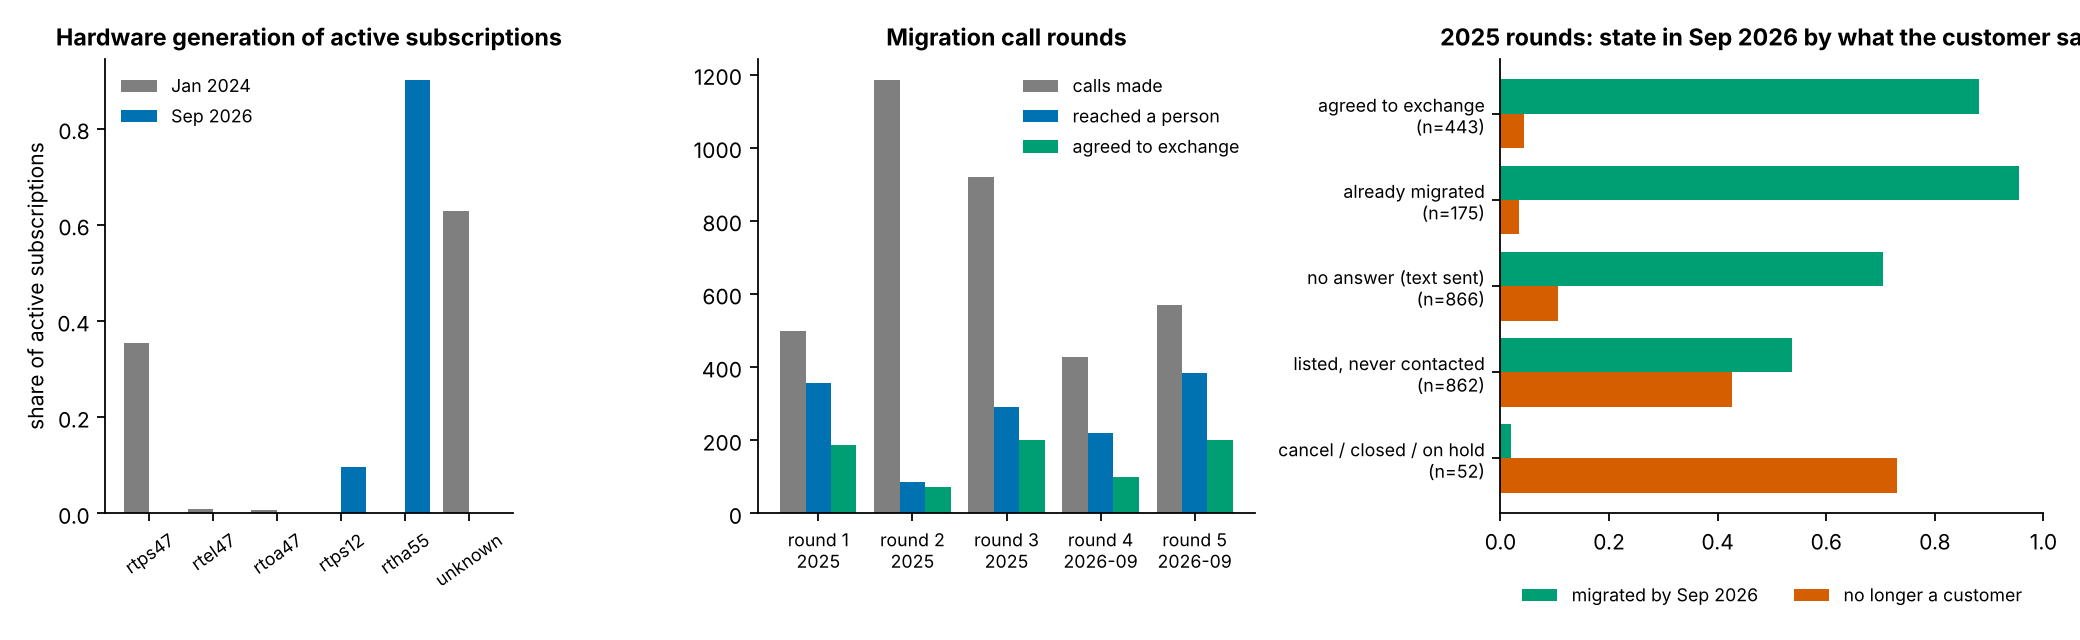
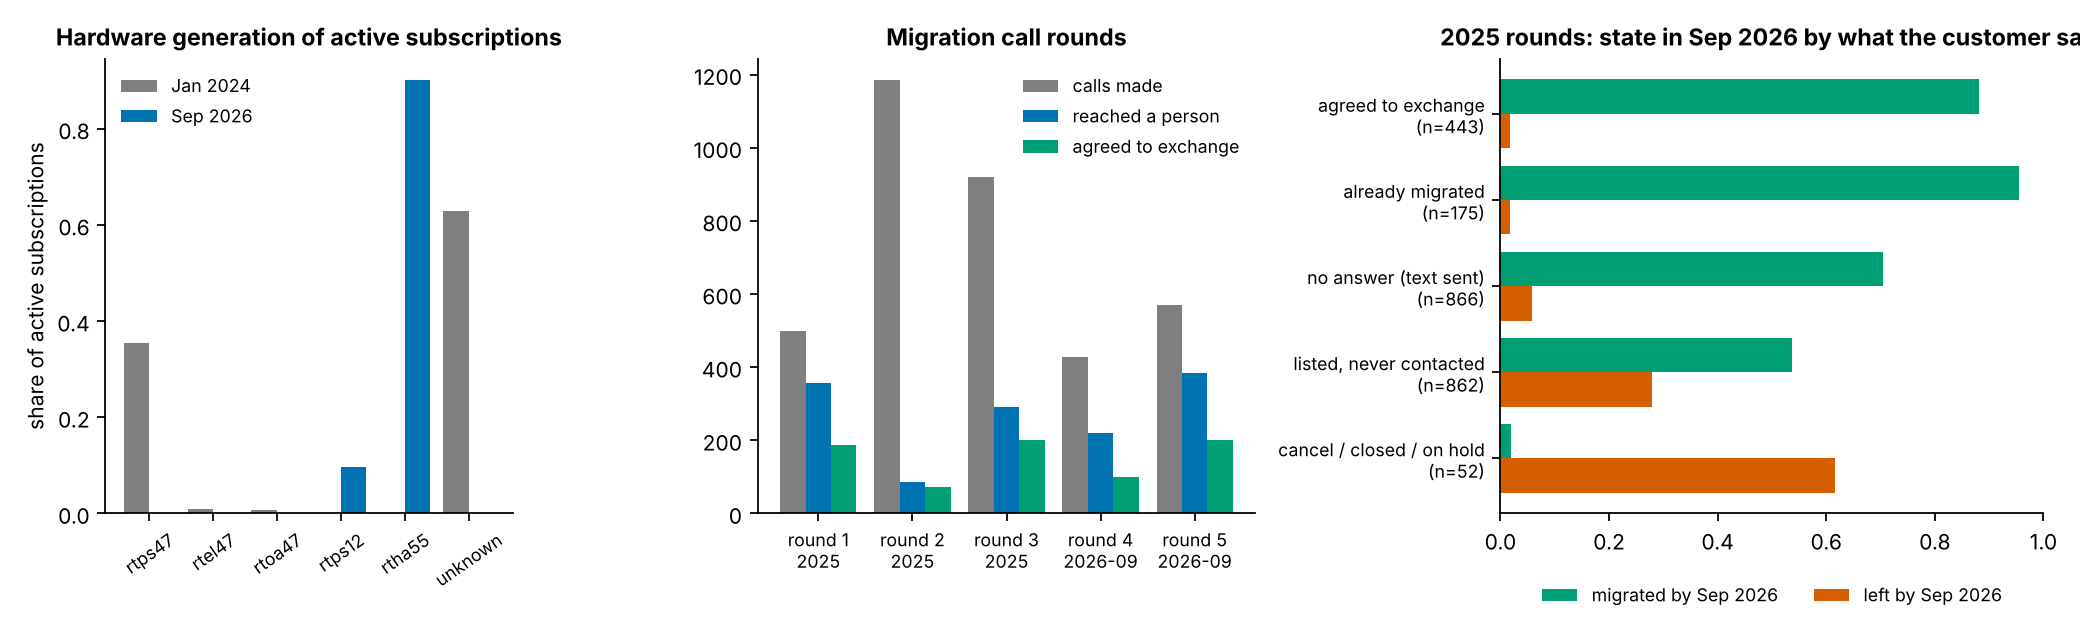
Call outcomes: keep customers on hold or in grace apart from customers who left

diff --git a/src/sublife/report.py b/src/sublife/report.py
@@ -195,7 +195,7 @@ def fig_migration(mix: pd.DataFrame, fun: pd.DataFrame, outc: pd.DataFrame, out:
     order = [g for g in ["agreed to exchange", "already migrated", "no answer (text sent)", "listed, never contacted", "cancel / closed / on hold"] if g in o.index]
     y = np.arange(len(order))
     ax[2].barh(y - 0.2, [o.loc[g, "migrated_share"] for g in order], height=0.4, color=C["green"], label="migrated by Sep 2026")
-    ax[2].barh(y + 0.2, [o.loc[g, "left_share"] for g in order], height=0.4, color=C["red"], label="no longer a customer")
+    ax[2].barh(y + 0.2, [o.loc[g, "left_share"] for g in order], height=0.4, color=C["red"], label="left by Sep 2026")
     ax[2].set_yticks(y)
     ax[2].set_yticklabels([f"{g}\n(n={int(o.loc[g, 'customers'])})" for g in order], fontsize=8)
     ax[2].invert_yaxis()
@@ -302,7 +302,7 @@ def write_report(path: Path, ctx: dict):
                  f"Across the 2025 rounds the reach rate did not improve with repeated attempts ({', '.join(pct(v) for v in ctx['reach_by_attempt'])} on the first, second and third attempt).")
     lines.append(f"- What customers said in 2025 predicts where they are in September 2026: of those who **agreed to exchange**, {pct(outc.loc['agreed to exchange', 'migrated_share'])} are on the new unit and {pct(outc.loc['agreed to exchange', 'left_share'])} have left; "
                  f"of those who **did not answer** (text sent), {pct(outc.loc['no answer (text sent)', 'migrated_share'])} migrated and {pct(outc.loc['no answer (text sent)', 'left_share'])} left; "
-                 f"of those who said **cancel / closed / on hold**, {pct(outc.loc['cancel / closed / on hold', 'left_share'])} have left. Customers listed but never called were the worst group ({pct(outc.loc['listed, never contacted', 'left_share'])} gone), which says the lists included accounts that were already on their way out.")
+                 f"of those who said **cancel / closed / on hold**, {pct(outc.loc['cancel / closed / on hold', 'left_share'])} have left. Customers listed but never called were the worst group: {pct(outc.loc['listed, never contacted', 'left_share'])} have left and another {pct(outc.loc['listed, never contacted', 'on_hold_share'])} are on hold or in grace, which says the lists included accounts that were already on their way out.")
     lines.append(f"- List hygiene: {int(fun.loc[4, 'already_migrated_rows']) + int(fun.loc[5, 'already_migrated_rows'])} of the {int(fun.loc[4, 'contacted_rows']) + int(fun.loc[5, 'contacted_rows'])} September-2026 calls went to customers who had already swapped the device.\n")
     lines.append("![calls](figures/07_migration_and_calls.png)\n")
 

diff --git a/src/sublife/calls.py b/src/sublife/calls.py
@@ -3,7 +3,8 @@
 Five call rounds. Rounds 1-3 ran in 2025 (no per-call date in the source), rounds 4-5 in September 2026,
 two to four weeks before the CRM export, so only the 2025 rounds have a long enough window to look at
 outcomes. Outcome = the customer's state on 28 Sep 2026: migrated (an active 2.0 slot), still on legacy
-hardware, or no longer a customer.
+hardware, left (coverage ended more than the grace period ago), or on hold / in grace (no active slot, but
+paid term left or coverage ended only recently).
 """
 from __future__ import annotations
 
@@ -54,19 +55,22 @@ def outcomes_2025_rounds(calls: pd.DataFrame, o: pd.DataFrame) -> pd.DataFrame:
     best["result_group"] = best["result_group"].fillna("listed, never contacted")
     m = best.merge(o[["org_key", "lifecycle", "has_current_type", "legacy_slots_active", "active_slots"]], on="org_key", how="left")
     m["state_2026_09"] = "not found"
-    m.loc[m["lifecycle"].notna(), "state_2026_09"] = "left"
+    m.loc[m["lifecycle"].notna(), "state_2026_09"] = "on hold or in grace"
+    m.loc[m["lifecycle"].eq("churned"), "state_2026_09"] = "left"
     m.loc[(m["active_slots"] > 0) & (m["legacy_slots_active"] > 0) & ~m["has_current_type"].fillna(False).astype(bool), "state_2026_09"] = "active, still legacy"
     m.loc[(m["active_slots"] > 0) & m["has_current_type"].fillna(False).astype(bool), "state_2026_09"] = "active, migrated"
-    m.loc[(m["active_slots"] > 0) & (m["state_2026_09"] == "left"), "state_2026_09"] = "active, generation unknown"
+    m.loc[(m["active_slots"] > 0) & m["state_2026_09"].isin(["left", "on hold or in grace"]), "state_2026_09"] = "active, generation unknown"
     rows = []
     for grp, g in m.groupby("result_group"):
         n = len(g)
         mig = int((g["state_2026_09"] == "active, migrated").sum())
         left = int((g["state_2026_09"] == "left").sum())
+        hold = int((g["state_2026_09"] == "on hold or in grace").sum())
         pm, lo, hi = wilson(mig, n)
         pl, llo, lhi = wilson(left, n)
         rows.append({"result_in_2025": grp, "customers": n, "migrated_by_2026_09": suppress(mig), "migrated_share": pm, "migrated_lo": lo, "migrated_hi": hi,
                      "left_by_2026_09": suppress(left), "left_share": pl, "left_lo": llo, "left_hi": lhi,
+                     "on_hold_by_2026_09": suppress(hold), "on_hold_share": hold / n,
                      "still_legacy": suppress(int((g["state_2026_09"] == "active, still legacy").sum()))})
     return pd.DataFrame(rows).sort_values("customers", ascending=False).reset_index(drop=True)
 

diff --git a/src/sublife/run.py b/src/sublife/run.py
@@ -175,7 +175,7 @@ def main(argv=None):
                     "renewal_calendar_12m": rcal[["slots_due", "customers_due", "expected_non_renewals_recent", "expected_non_renewals_peak"]].sum().to_dict(),
                     "signings": {"method": best, "next_12m": float(fc["forecast"].sum()), "lo": float(fc["lo"].sum()), "hi": float(fc["hi"].sum())},
                     "generation_mix_2026": mix.set_index("generation")["share_2026_09"].round(3).to_dict(), "transitions": tmeta,
-                    "calls": {"funnel": fun.to_dict(orient="records"), "outcomes_2025": outc[["result_in_2025", "customers", "migrated_share", "left_share"]].round(3).to_dict(orient="records")}})
+                    "calls": {"funnel": fun.to_dict(orient="records"), "outcomes_2025": outc[["result_in_2025", "customers", "migrated_share", "left_share", "on_hold_share"]].round(3).to_dict(orient="records")}})
     (out / "summary.json").write_text(json.dumps(_round_nested(summary), indent=2, default=_json_default), encoding="utf-8")
     print(json.dumps({"organizations": summary["organizations"], "anniversaries": int(len(p)), "churn_by_year": {k: round(v, 3) for k, v in summary["churn_by_year"].items()}, "risk_list": summary["risk_list"]}, default=_json_default))
 

diff --git a/tests/test_lifecycle.py b/tests/test_lifecycle.py
@@ -193,3 +193,19 @@ def test_published_tables_are_consistent():
     snap = inp["contracts_snapshot_2024-01-05"]
     assert (snap["snapshot_date"] == T("2024-01-05")).all()
     assert snap["org_key"].isin(inp["dim_org"]["org_key"]).mean() > 0.95
+
+
+@pytestmark_inputs
+def test_call_outcomes_keep_on_hold_apart_from_left():
+    from sublife import calls
+    from sublife.data import clean_contracts, load_inputs
+    from sublife.orgs import org_table_with_restored
+
+    inp = load_inputs(INPUT)
+    o = org_table_with_restored(clean_contracts(inp["fact_contract"]), inp["dim_org"], inp["contracts_snapshot_2024-01-05"])
+    t = calls.outcomes_2025_rounds(inp["migration_calls"], o).set_index("result_in_2025")
+    assert ((t["migrated_share"] + t["left_share"] + t["on_hold_share"]) <= 1 + 1e-9).all()
+    never = t.loc["listed, never contacted"]
+    # a customer with paid term left, or inside the grace period, has not left
+    assert 0.25 < never["left_share"] < 0.31
+    assert 0.12 < never["on_hold_share"] < 0.17

diff --git a/reports/subscription_lifecycle_report.md b/reports/subscription_lifecycle_report.md
@@ -49,7 +49,7 @@ Data: the vendor's CRM contract list as of 2026-09-28 (13,753 vehicle-subscripti
 ## 6. The migration call campaign
 
 - Five rounds: 498, 1,184, 921, 428 and 571 calls. Round 1 reached a person on 72 % of calls; round 2, the largest, on 7 % - 93 % of its 1,184 calls ended in a text message. Across the 2025 rounds the reach rate did not improve with repeated attempts (28 %, 29 %, 23 % on the first, second and third attempt).
-- What customers said in 2025 predicts where they are in September 2026: of those who **agreed to exchange**, 88 % are on the new unit and 4 % have left; of those who **did not answer** (text sent), 70 % migrated and 11 % left; of those who said **cancel / closed / on hold**, 73 % have left. Customers listed but never called were the worst group (43 % gone), which says the lists included accounts that were already on their way out.
+- What customers said in 2025 predicts where they are in September 2026: of those who **agreed to exchange**, 88 % are on the new unit and 2 % have left; of those who **did not answer** (text sent), 70 % migrated and 6 % left; of those who said **cancel / closed / on hold**, 62 % have left. Customers listed but never called were the worst group: 28 % have left and another 15 % are on hold or in grace, which says the lists included accounts that were already on their way out.
 - List hygiene: 152 of the 999 September-2026 calls went to customers who had already swapped the device.
 
 ![calls](figures/07_migration_and_calls.png)

diff --git a/README.md b/README.md
@@ -51,9 +51,10 @@ January 2024 is used to validate the reconstruction. Inputs are de-identified an
 - **The hardware migration is nearly done and the calls were predictive.** 90 % of active subscriptions are
   on the 2.0 unit; 366 legacy units at 252 customers remain. Five call rounds: round 2 (1,184 calls) reached
   a person on 7 % of calls, and repeated attempts did not raise reach (28 %, 29 %, 23 %). Of customers who
-  agreed to exchange in 2025, 88 % are on the new unit and 4 % have left; of those who said cancel / closed /
-  on hold, 73 % have left; 43 % of customers listed but never called are gone, so the lists carried accounts
-  already on their way out. 152 of the 999 September-2026 calls went to customers who had already swapped.
+  agreed to exchange in 2025, 88 % are on the new unit and 2 % have left; of those who said cancel / closed /
+  on hold, 62 % have left; of customers listed but never called, 28 % have left and another 15 % are on hold
+  or in grace, so the lists carried accounts already on their way out. 152 of the 999 September-2026 calls
+  went to customers who had already swapped.
 
 Full write-up with figures: [`reports/subscription_lifecycle_report.md`](reports/subscription_lifecycle_report.md).
 
